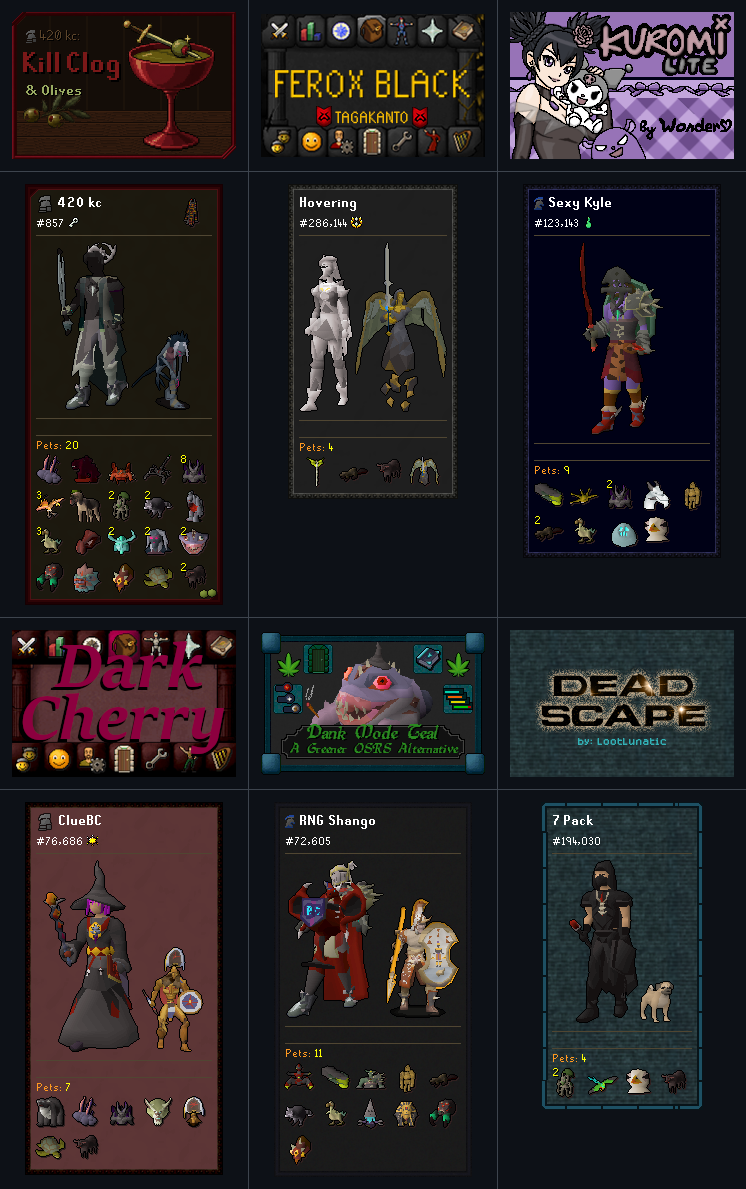
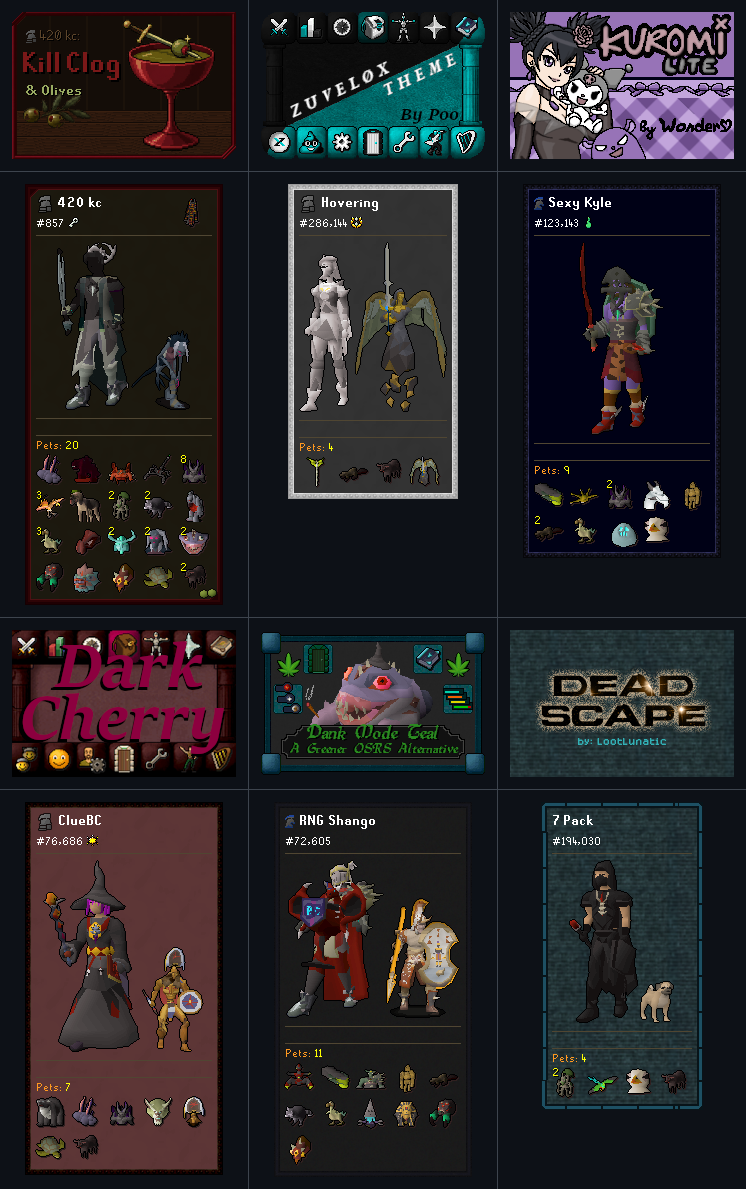
README: Hovering's Player Summary in 07 Zuvelox in the Resource Packs showcase

Changed region(s): [[0.3391, 0.0, 0.6475, 0.4357]]

diff --git a/README.md b/README.md
@@ -74,7 +74,7 @@ Hover your Collection Log total to see your log, and click it to pin and browse 
 
 Kill Clog draws its cards with the game's own interface frames, so they wear whichever Resource Pack you use.
 
-![Six players' Player Summaries, each in a different Resource Pack under its Resource Packs hub picture: Kill Clog & Olives, Ferox Black, KuromiLite, Dark Cherry, Dank Mode Teal and DeadScape](screenshots/player-summary-showcase.png)
+![Six players' Player Summaries, each in a different Resource Pack under its Resource Packs hub picture: Kill Clog & Olives, 07 Zuvelox, KuromiLite, Dark Cherry, Dank Mode Teal and DeadScape](screenshots/player-summary-showcase.png)
 
 ## Grid and List views
 
